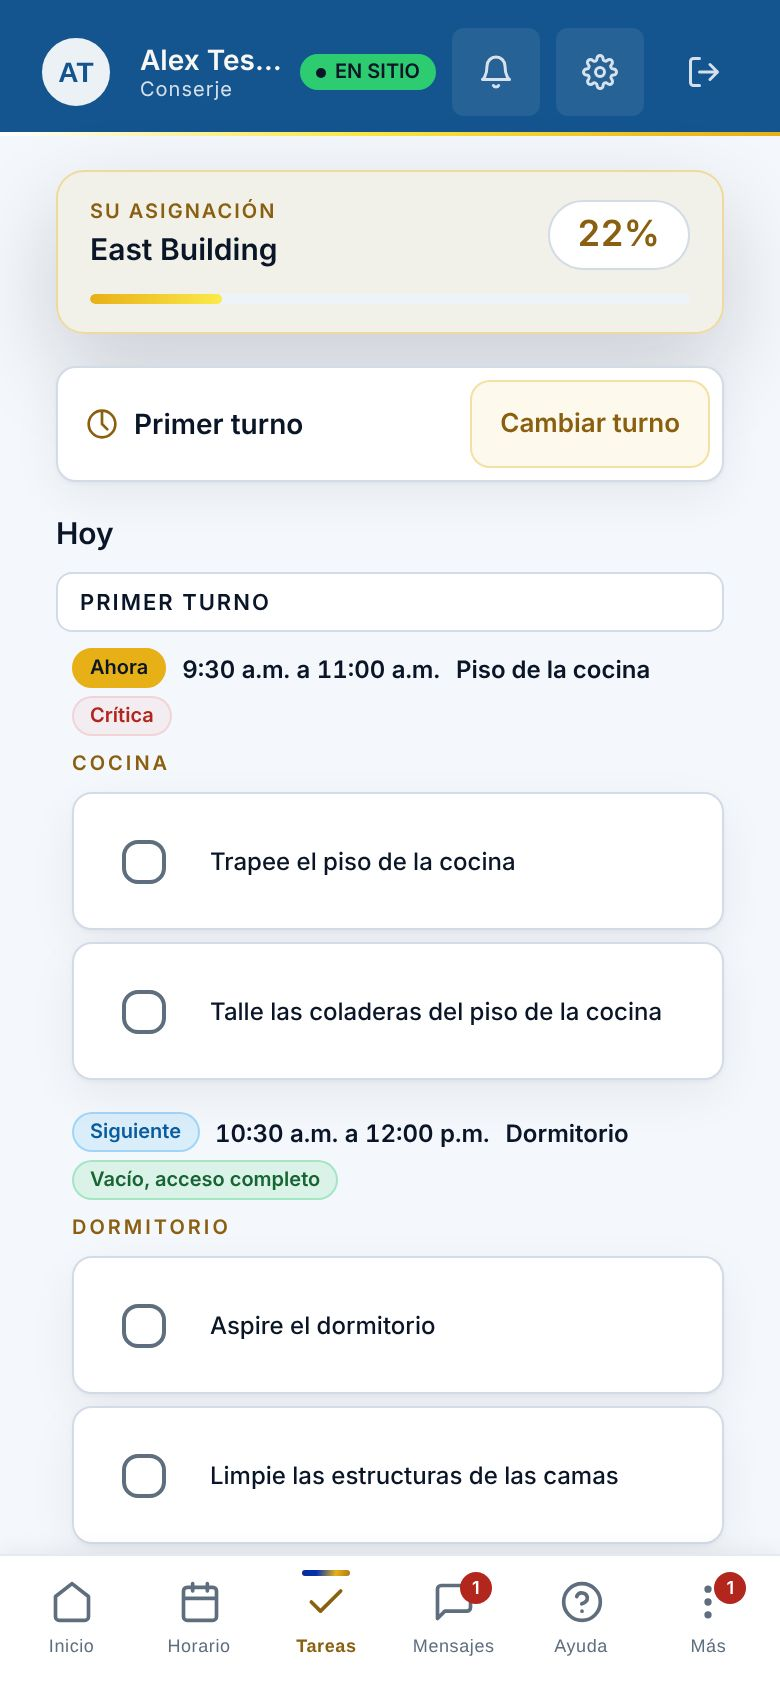
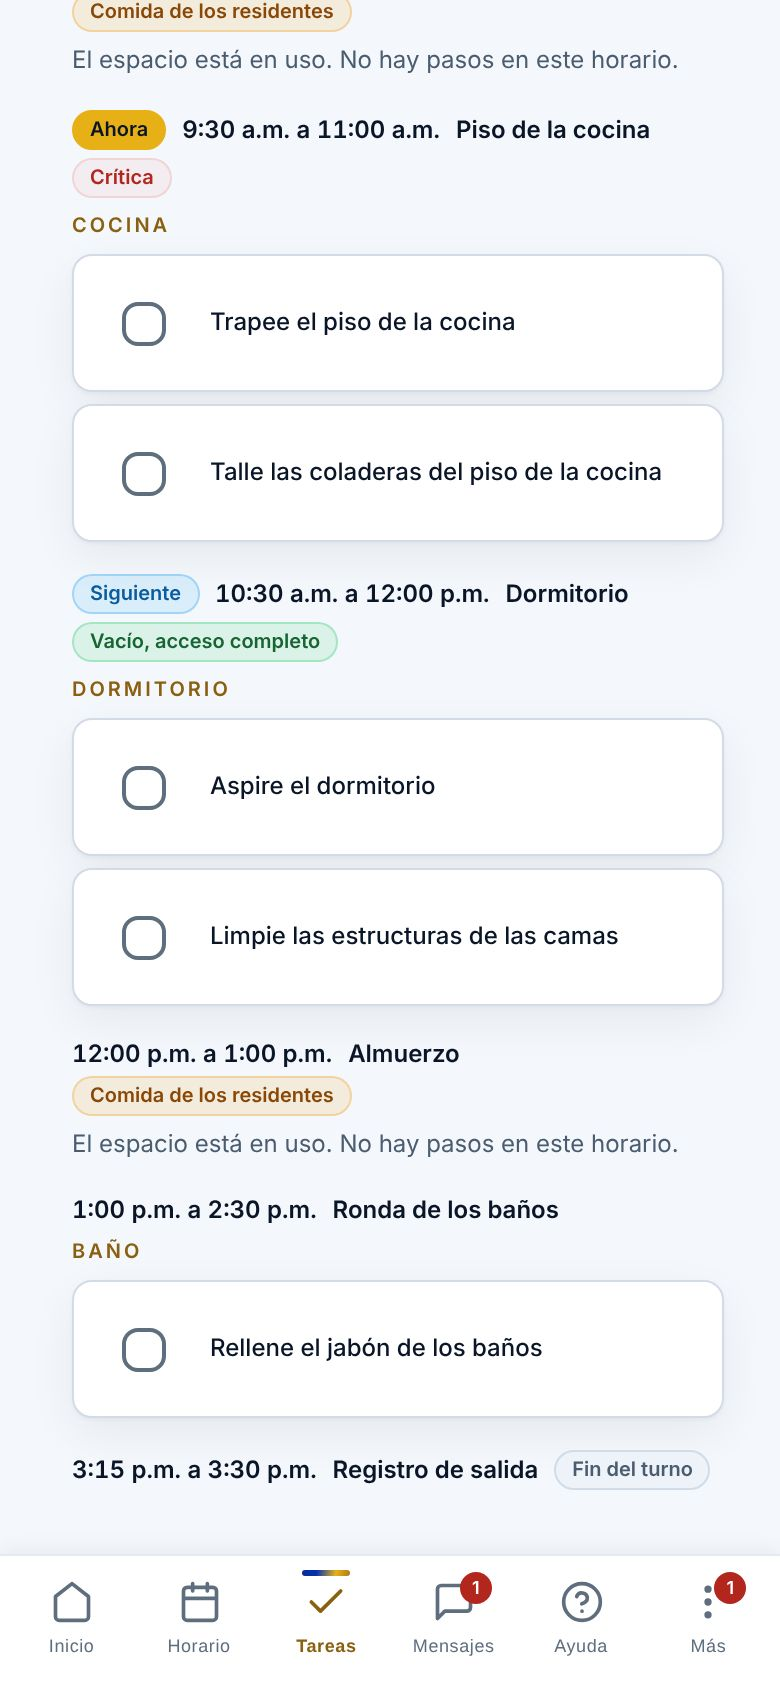
345: The guide entries and the schedule picture for a checklist in time order
Read your site's schedule, step 2: the blocks run in time order, Now and
Next are marked in place, and the list opens at the work happening now.
Check off a task on your checklist and Use Tasks before your shift
starts said the Now block comes first, and now say the same as step 2.
The schedule picture waits for the list to land on the Now block, and
the four pictures of the three entries are taken again.

Claude-Session: https://claude.ai/code/session_01GiSnEfZQhDDRJQq1h9XNA3

diff --git a/audit/shots.js b/audit/shots.js
@@ -678,9 +678,10 @@ const SHOTS = [
   { name: "tasks-no-shift", entry: E("Use Tasks before your shift starts"), o: { signedIn: true, stub: { clockedIn: false } },
     go: async (s) => { if (!(await s.go("Tasks"))) return false; return s.waitText(s.say("Start your shift to see and check off your tasks.")); } },
   // Step 316: East Building's timed schedule at 10:00 AM on a Monday, the
-  // kitchen floor Now and the sleeping area Next at the top.
+  // kitchen floor Now and the sleeping area Next. Part 345: the blocks in
+  // time order, and the list opened at the kitchen floor, near the top.
   { name: "tasks-schedule", entry: E("Read your site's schedule"), o: { signedIn: true, stub: { site: "site-east", now: "2026-10-05T14:00:00Z" }, phone: { now: "2026-10-05T14:00:00Z" } },
-    go: async (s) => { if (!(await s.go("Tasks"))) return false; return s.waitFor(() => !!document.querySelector("[data-block-now]") && !!document.querySelector("[data-block-next]")); } },
+    go: async (s) => { if (!(await s.go("Tasks"))) return false; return s.waitFor(() => { const b = document.querySelector('[data-block-when="now"]'); const top = b ? b.getBoundingClientRect().top : -1; return !!document.querySelector("[data-block-next]") && window.scrollY > 0 && top >= 0 && top <= 200; }); } },
   { name: "tasks-no-signal", entry: E("Check off tasks with no signal"), o: { signedIn: true },
     go: async (s) => {
       if (!(await s.go("Tasks"))) return false;

diff --git a/guide/APP-PORTAL.md b/guide/APP-PORTAL.md
@@ -98,13 +98,13 @@ Who can do this: anyone with a shift started
 3. Tap the box next to the task. It turns green when it is done, and **Task completed** (**Tarea completada**) (**Tâche terminée**) says so. The app saves the exact time you checked it.
 4. A blue dot after a task's name means the task has details: instructions, a photo or a video. A tap on the name of a task with a blue dot opens its details, where you tap **Mark Complete** (**Marcar como completada**) (**Marquer comme terminée**) (see See a checklist task's details). A tap on the name of a task with no dot checks it, the same as the box.
 5. A **Touchpoint** (**Punto de contacto**) (**Point de contact**) tag beside a task's name means a high touch surface, one that many hands reach, such as a door handle, a light switch or a faucet. Clean and disinfect it every time: the office logs each touchpoint one by one on its disinfection log. **Critical touchpoint** (**Punto de contacto crítico**) (**Point de contact critique**) in its place means the office marked that surface critical, the ones the log watches most closely, so do it first and never leave it undone. A task with neither tag is cleaned as its instructions say. The **PRIORITY** (**PRIORIDAD**) (**PRIORITÉ**) tag is separate and means high priority work.
-How the list is laid out: the list opens on **Today** (**Hoy**) (**Aujourd'hui**), today's work, with each block of work titled with its time first, such as 7:00 PM Restroom Round 1, then each building and floor as before. At a site with a timed schedule, each block shows its time and its end, such as 9:30 AM to 11:00 AM (9:30 a.m. a 11:00 a.m.), and a tag in words for its kind, and the block happening now comes first, marked **Now** (**Ahora**) (**Maintenant**) (see Read your site's schedule). The percentage on **Your Assignment** (**Su asignación**) (**Votre affectation**), and the count on Home, count only the work due today. Below it, when there is any, come **This week** (**Esta semana**) (**Cette semaine**), **Every two weeks** (**Cada dos semanas**) (**Toutes les deux semaines**), **This month** (**Este mes**) (**Ce mois-ci**), **This quarter** (**Este trimestre**) (**Ce trimestre**) and **This season** (**Esta temporada**) (**Cette saison**), each with its own count, such as 1 of 2 done (1 de 2 hechas). Each task there says how often it comes beside its name: **Weekly** (**Semanal**) (**Hebdomadaire**), **Every two weeks** (**Cada dos semanas**) (**Toutes les deux semaines**), **Monthly** (**Mensual**) (**Mensuel**), **Quarterly** (**Trimestral**) (**Trimestriel**) or **Seasonal** (**De temporada**) (**Saisonnier**). That work stays on the list until anyone at the site does it in its period, and then says who did it and when, such as Done Tuesday by Ana (Hecho el martes por Ana). Last comes **As needed** (**Según se necesite**) (**Selon les besoins**), which is never counted. A task done every other day that was done yesterday shows done and does not count today. A coworker's check today shows Checked by (Marcado por) and their first name. The day's list starts fresh at 4:00 AM, so a night shift's checks after midnight stay on that night's list, and work done before midnight still says Done today (Hecho hoy) until 4:00 AM. Task, zone, shift and block names show in Spanish on a Spanish screen.
+How the list is laid out: the list opens on **Today** (**Hoy**) (**Aujourd'hui**), today's work, with each block of work titled with its time first, such as 7:00 PM Restroom Round 1, then each building and floor as before. At a site with a timed schedule, each block shows its time and its end, such as 9:30 AM to 11:00 AM (9:30 a.m. a 11:00 a.m.), and a tag in words for its kind. The blocks run in time order, the block happening now is marked **Now** (**Ahora**) (**Maintenant**), and the list opens at it (see Read your site's schedule). The percentage on **Your Assignment** (**Su asignación**) (**Votre affectation**), and the count on Home, count only the work due today. Below it, when there is any, come **This week** (**Esta semana**) (**Cette semaine**), **Every two weeks** (**Cada dos semanas**) (**Toutes les deux semaines**), **This month** (**Este mes**) (**Ce mois-ci**), **This quarter** (**Este trimestre**) (**Ce trimestre**) and **This season** (**Esta temporada**) (**Cette saison**), each with its own count, such as 1 of 2 done (1 de 2 hechas). Each task there says how often it comes beside its name: **Weekly** (**Semanal**) (**Hebdomadaire**), **Every two weeks** (**Cada dos semanas**) (**Toutes les deux semaines**), **Monthly** (**Mensual**) (**Mensuel**), **Quarterly** (**Trimestral**) (**Trimestriel**) or **Seasonal** (**De temporada**) (**Saisonnier**). That work stays on the list until anyone at the site does it in its period, and then says who did it and when, such as Done Tuesday by Ana (Hecho el martes por Ana). Last comes **As needed** (**Según se necesite**) (**Selon les besoins**), which is never counted. A task done every other day that was done yesterday shows done and does not count today. A coworker's check today shows Checked by (Marcado por) and their first name. The day's list starts fresh at 4:00 AM, so a night shift's checks after midnight stay on that night's list, and work done before midnight still says Done today (Hecho hoy) until 4:00 AM. Task, zone, shift and block names show in Spanish on a Spanish screen.
 A list to read at some sites: at some sites, schools among them, the task list is there to read, and staff do not check anything off. There **Tasks** (**Tareas**) (**Tâches**) shows **Task list for this site** (**Lista de tareas de este sitio**) (**Liste des tâches de ce site**) and **Nothing to check off here. This list shows the work our staff do at this site.** (**Aquí no hay nada que marcar. Esta lista muestra el trabajo que nuestro personal hace en este sitio.**) (**Rien à cocher ici. Cette liste montre le travail que notre personnel effectue sur ce site.**) It is the same list, set out the same way by shift, block and place, with no boxes, no percentage and no counts, and the count on Home is left off. A task with a blue dot still opens its details to read. Everything else at the site works as usual: your shift, problem reports, forms, inspections, supplies and Help. To read it with no shift open, tap **Task list for this site** (**Lista de tareas de este sitio**) (**Liste des tâches de ce site**) under the site on **Home** (**Inicio**) (**Accueil**), where your sites are listed to start a shift, and **Close** (**Cerrar**) (**Fermer**) when you are done.
 If it does not work: if the list says **Start your shift to see and check off your tasks.** (**Comience su turno para ver y marcar sus tareas.**) (**Commencez votre service pour voir et cocher vos tâches.**), start your shift first. If it says **Your tasks did not load.** (**Sus tareas no cargaron.**) (**Vos tâches ne se sont pas chargées.**), tap **Try again** (**Intentar de nuevo**) (**Réessayer**). With no signal, keep checking: the phone keeps your checks and sends them later (see Check off tasks with no signal).
 Words people use for this: my checklist, my tasks, nothing to check off, list to read, the boxes are gone, school task list, task list for this site, my list, the list is empty, what do i clean today, timed schedule, what is now, whole site checklist, my coworker checked it, weekly tasks, monthly tasks, quarterly, seasonal, how often, weekly, monthly, the percentage is wrong, why is it not 100, it says done yesterday, blue dot, tap the name, task details, touchpoint, high touch, disinfect, critical touchpoint, what does the blue tag mean, what does the red tag mean, punto de contacto, point de contact.
 Picture: tasks
 Picture: tasks-reference
-Last checked: 2026-10-13
+Last checked: 2026-10-14
 
 ## Uncheck a task checked by mistake (staff portal)
 Who can do this: the person who checked it, the same day
@@ -912,11 +912,11 @@ Last checked: 2026-10-05
 ## Use Tasks before your shift starts (staff portal)
 Who can do this: anyone signed in
 1. Before a shift is started, **Tasks** (**Tareas**) (**Tâches**) says **Start your shift to see and check off your tasks.** (**Comience su turno para ver y marcar sus tareas.**) (**Commencez votre service pour voir et cocher vos tâches.**) and **No tasks loaded. Start your shift at a site to see your checklist.** (**No hay tareas. Comience su turno en un sitio para ver su lista.**) (**Aucune tâche chargée. Commencez votre service sur un site pour voir votre liste.**)
-2. Go to **Home** (**Inicio**) (**Accueil**) and start your shift at the site (see Start your shift at a site). The app opens **Tasks** (**Tareas**) (**Tâches**) with that site's checklist, after asking which shift at a site with more than one. At a site with a timed schedule, the list opens on your shift's schedule for today, with the block happening now first (see Read your site's schedule).
+2. Go to **Home** (**Inicio**) (**Accueil**) and start your shift at the site (see Start your shift at a site). The app opens **Tasks** (**Tareas**) (**Tâches**) with that site's checklist, after asking which shift at a site with more than one. At a site with a timed schedule, the list opens on your shift's schedule for today, in time order, at the block happening now (see Read your site's schedule).
 3. If a shift of yours was ended on another phone or by a supervisor, its list can still show here, dimmed, until you start again. Nothing on it can be checked. A task with a blue dot still opens its details to read.
 Words people use for this: tasks are empty, no tasks, why can i not see my list, checklist before my shift, start my shift first, where is the schedule, no hay tareas.
 Picture: tasks-no-shift
-Last checked: 2026-10-07
+Last checked: 2026-10-14
 
 ## Use the bottom bar and More (staff portal)
 Who can do this: anyone signed in
@@ -1450,16 +1450,16 @@ Last checked: 2026-10-07
 ## Read your site's schedule (staff portal)
 Who can do this: anyone with a shift started at a site whose blocks have times
 1. Start your shift and tap **Tasks** (**Tareas**) (**Tâches**). Under **Today** (**Hoy**) (**Aujourd'hui**), your shift's schedule is laid out block by block. Each block shows its time and its end, such as 9:30 AM to 11:00 AM (9:30 a.m. a 11:00 a.m.), and its name, with that block's steps under it. Blocks with no steps, such as a residents' meal or the start and end of the shift, are in their place too, at a site with one shift as at a site with several.
-2. The block happening now comes first, marked **Now** (**Ahora**) (**Maintenant**), then the one starting next, marked **Next** (**Siguiente**) (**Suivant**). The rest follow in the order of the day.
+2. The blocks run in time order, from the start of your shift to its end, and the steps in each block run in the order to do them. The block happening now is marked **Now** (**Ahora**) (**Maintenant**) and the one starting next is marked **Next** (**Siguiente**) (**Suivant**), each in its place. The list opens at the work happening now, and it stays where you leave it while you check off steps.
 3. A tag beside a block's name says in words what kind of time it is. **Critical** (**Crítica**) (**Critique**) is work that has to be done in its time. **Residents' meal** (**Comida de los residentes**) (**Repas des résidents**) is a time when the space is in use, and it reads **The space is in use. No steps in this time.** (**El espacio está en uso. No hay pasos en este horario.**) (**L'espace est occupé. Aucune étape pendant ce créneau.**) **Empty, full access** (**Vacío, acceso completo**) (**Vide, accès complet**) means nobody is in the space and you have full access to clean it. **Start of shift** (**Inicio del turno**) (**Début du service**) and **End of shift** (**Fin del turno**) (**Fin du service**) are the shift's check-in and check-out. A block with no tag is regular work.
 4. **When there is free time** (**Cuando haya tiempo libre**) (**Quand il y a du temps libre**) marks work with no set time, done whenever there is free time on its days. Its steps count once a week, so they show under **This week** (**Esta semana**) (**Cette semaine**) with that tag.
 5. A critical block past its end with a step still open reads **Overdue** (**Vencido**) (**En retard**). Finish those steps first, or tell your supervisor.
 6. Some blocks run only on certain days, so the schedule changes with the day of the week. A block that does not run today is left off the list.
 At a site whose blocks have no end time, the list shows each block's start time and name, the way it always has.
 If it does not work: if the schedule shows the other shift's blocks, tap **Change shift** (**Cambiar turno**) (**Changer de service**) (see Change your shift).
-Words people use for this: schedule, today's schedule, what do i do now, what is next, when is lunch, residents' meal, the space is in use, full access, shut down, free time, saturday work, overdue, critical block, my timed list, horario de hoy, ahora, siguiente.
+Words people use for this: schedule, today's schedule, what do i do now, what is next, list out of order, time order, when is lunch, residents' meal, the space is in use, full access, shut down, free time, saturday work, overdue, critical block, my timed list, horario de hoy, ahora, siguiente.
 Picture: tasks-schedule
-Last checked: 2026-10-08
+Last checked: 2026-10-14
 
 ## Start an inspection without a schedule (staff portal)
 Who can do this: anyone an admin has given the permission to schedule inspections, the same people who see **+ Schedule** (**+ Programar**) (**+ Planifier**). Nobody else sees **Start an inspection** (**Comenzar una inspección**) (**Commencer une inspection**).
